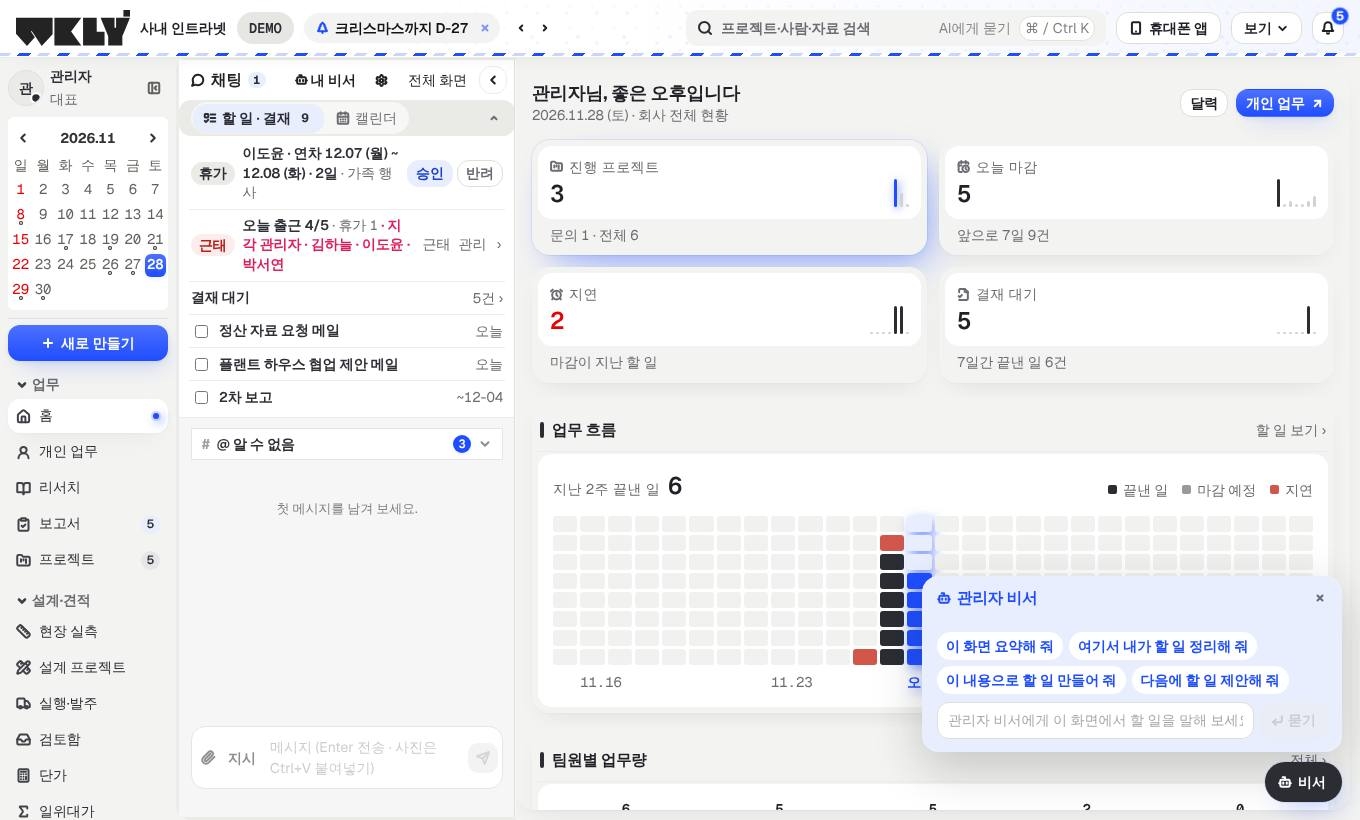
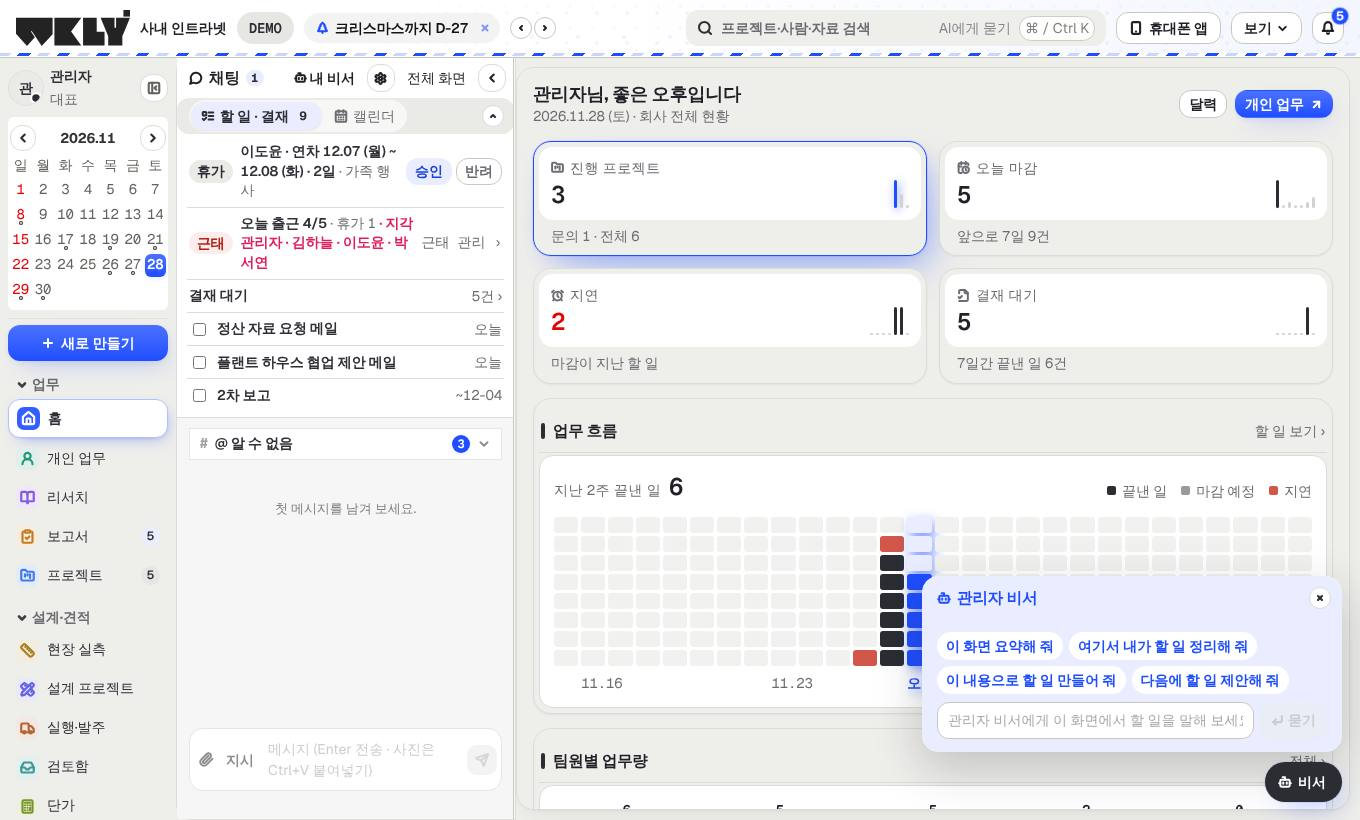
디자인 v9 선명하게: 메뉴마다 다른 강조색 · 카드 선 · 광고 탭
- 강조색을 메뉴마다 다르게 (lib/menuColors.ts · 빛과 연한 바탕은 color-mix 로 계산)
- 왼쪽 메뉴 아이콘을 메뉴 색 칸에, 카드는 흰 바탕 + 또렷한 선
- 광고 묶음 탭 · 아래 탭 · 조회 기간 고르기 모양 고침
- 사용 안내 사진 다시 찍음

Claude-Session: https://claude.ai/code/session_01F3gTQwJrgJEzSdbh5GAwru

diff --git a/erp/src/mono.css b/erp/src/mono.css
@@ -10,7 +10,7 @@
    - 바탕은 계속 밝게(어두운 화면 아님) · '화면 어둡게'(data-theme=dark)는 건드리지 않음 · main.tsx 에서 이 import 를 빼면 색 토큰만 v8 로 돌아감
    ================================================================================ */
 :root {
-  --v9-accent: #1f4dff; --v9-accent-tint: #e9eeff;
+  --v9-accent: #1f4dff; --v9-accent-tint: color-mix(in srgb, var(--v9-accent) 10%, #fff);
   --font: 'Geist', 'Pretendard Variable', Pretendard, system-ui, -apple-system, 'Apple SD Gothic Neo', sans-serif;
   --display: 'Geist', 'Pretendard Variable', Pretendard, system-ui, sans-serif;
   --mono: 'Geist Mono', 'JetBrains Mono', ui-monospace, 'SFMono-Regular', Menlo, 'Pretendard Variable', monospace;
@@ -20,10 +20,10 @@
   --v8-r-ctl: 12px;
 }
 html:not([data-theme="dark"]) {
-  --v8-bg: #f3f3f1;
+  --v8-bg: #eeeeeb;
   --v8-card: #ffffff;
-  --v8-line: #ebebe8;
-  --v8-line-2: #dededb;
+  --v8-line: #dbdbd7;
+  --v8-line-2: #c8c8c3;
   --v9-ink: #2b2d33;        /* 부드러운 먹색 (새까만 색을 쓰지 않음) */
   --v8-ink: #1f2126;
   --v8-text: #2e3036;
@@ -46,16 +46,16 @@ html:not([data-theme="dark"]) {
   --blue-tint: #eaeae7;
   --pink: #2b2d33;
   --v9-accent: #1f4dff;       /* 네온 파랑 */
-  --v9-accent-2: #5b7dff;
-  --v9-accent-tint: #e9eeff;
+  --v9-accent-2: color-mix(in srgb, var(--v9-accent) 75%, #fff);
+  --v9-accent-tint: color-mix(in srgb, var(--v9-accent) 10%, #fff);
   --v9-live: #33d17a;         /* 정상 · 살아 있음 점 */
   --neon: var(--v9-accent);
   /* 빛이 새어 나가는 효과: 밝은 테 한 줄 + 오른쪽 아래로 번지는 빛 두 겹 */
-  --glow-1: 0 2px 6px -2px rgba(31, 77, 255, .16), 6px 10px 24px -10px rgba(31, 77, 255, .30);
-  --glow-2: 0 0 0 1px rgba(31, 77, 255, .10), 8px 12px 28px -10px rgba(31, 77, 255, .36), 18px 24px 56px -20px rgba(91, 125, 255, .40);
-  --glow-3: 0 0 0 1px rgba(31, 77, 255, .22), 8px 12px 30px -8px rgba(31, 77, 255, .48), 20px 28px 64px -18px rgba(91, 125, 255, .55);
+  --glow-1: 0 2px 6px -2px color-mix(in srgb, var(--v9-accent) 16%, transparent), 6px 10px 24px -10px color-mix(in srgb, var(--v9-accent) 30%, transparent);
+  --glow-2: 0 0 0 1px color-mix(in srgb, var(--v9-accent) 10%, transparent), 8px 12px 28px -10px color-mix(in srgb, var(--v9-accent) 36%, transparent), 18px 24px 56px -20px color-mix(in srgb, var(--v9-accent) 28%, transparent);
+  --glow-3: 0 0 0 1px color-mix(in srgb, var(--v9-accent) 22%, transparent), 8px 12px 30px -8px color-mix(in srgb, var(--v9-accent) 48%, transparent), 20px 28px 64px -18px color-mix(in srgb, var(--v9-accent) 38%, transparent);
   --neon-glow: var(--glow-2);
-  --neon-soft: 0 0 0 4px rgba(31, 77, 255, .12), 4px 8px 20px -8px rgba(31, 77, 255, .28);
+  --neon-soft: 0 0 0 4px color-mix(in srgb, var(--v9-accent) 12%, transparent), 4px 8px 20px -8px color-mix(in srgb, var(--v9-accent) 28%, transparent);
   --div-ar: #2b2d33; --div-tw: #8a8a86; --div-rs: #c4c4c0;
   --cal-mine: #1f4dff; --cal-mine-tint: #e9eeff;
 }
@@ -72,8 +72,8 @@ html:not([data-theme="dark"]) .top-logo .logo-ink, html:not([data-theme="dark"])
 html:not([data-theme="dark"]) :is(.box, .stat, .kpi, .card, .home-kpi, .today-card, .checkin-card, .brief, .rd-box) { border-color: var(--v8-line); box-shadow: var(--v8-shadow); }
 
 /* ---------- 버튼 ---------- */
-html:not([data-theme="dark"]) :is(.btn-primary, .new-btn, .today-ok) { background: linear-gradient(180deg, #4d70ff, var(--v9-accent)) !important; border-color: transparent !important; color: #fff !important; box-shadow: var(--glow-1); transition: box-shadow .18s, transform .05s; }
-html:not([data-theme="dark"]) :is(.btn-primary, .new-btn, .today-ok):hover:not(:disabled) { background: linear-gradient(180deg, #4468ff, #1a43e6) !important; box-shadow: var(--glow-2); }
+html:not([data-theme="dark"]) :is(.btn-primary, .new-btn, .today-ok) { background: linear-gradient(180deg, color-mix(in srgb, var(--v9-accent) 80%, #fff), var(--v9-accent)) !important; border-color: transparent !important; color: #fff !important; box-shadow: var(--glow-1); transition: box-shadow .18s, transform .05s; }
+html:not([data-theme="dark"]) :is(.btn-primary, .new-btn, .today-ok):hover:not(:disabled) { background: linear-gradient(180deg, color-mix(in srgb, var(--v9-accent) 80%, #fff), color-mix(in srgb, var(--v9-accent) 86%, #000)) !important; box-shadow: var(--glow-2); }
 html:not([data-theme="dark"]) :is(.btn-primary, .new-btn, .today-ok):active:not(:disabled) { transform: translateY(1px); }
 html:not([data-theme="dark"]) :is(.btn-primary, .new-btn) svg { color: #fff; }
 html:not([data-theme="dark"]) :is(.btn-outline, .btn-ghost):hover:not(:disabled) { border-color: var(--v9-ink); color: var(--v9-ink); background: #fff; }
@@ -85,7 +85,7 @@ html:not([data-theme="dark"]) :is(.input, .select, .textarea, input[type="text"]
 /* ---------- 왼쪽 메뉴: 고른 줄 = 흰 칸 + 네온 점 ---------- */
 html:not([data-theme="dark"]) .app-page .profile .side-item.on { background: #fff; color: var(--v9-ink); box-shadow: var(--glow-1); position: relative; }
 html:not([data-theme="dark"]) .app-page .profile .side-item.on > svg { color: var(--v9-ink); }
-html:not([data-theme="dark"]) .app-page .profile .side-item.on::after { content: ''; position: absolute; right: 9px; top: 50%; width: 6px; height: 6px; margin-top: -3px; border-radius: 50%; background: var(--v9-accent); box-shadow: 0 0 0 2px rgba(31,77,255,.18), 3px 3px 10px rgba(31,77,255,.8); }
+html:not([data-theme="dark"]) .app-page .profile .side-item.on::after { content: ''; position: absolute; right: 9px; top: 50%; width: 6px; height: 6px; margin-top: -3px; border-radius: 50%; background: var(--v9-accent); box-shadow: 0 0 0 2px color-mix(in srgb, var(--v9-accent) 18%, transparent), 3px 3px 10px color-mix(in srgb, var(--v9-accent) 80%, transparent); }
 html:not([data-theme="dark"]) .app-page .profile .side-item.on.has-n::after { display: none; }
 html:not([data-theme="dark"]) .side-group-label { color: var(--v8-sub) !important; letter-spacing: .02em; }
 
@@ -105,7 +105,7 @@ html:not([data-theme="dark"]) :is(.table, .board) tbody tr:hover { background: #
 html:not([data-theme="dark"]) :is(.meter > *, .pc-bar > i, .dash-prog i, .g-bar) { background-color: var(--v9-ink); }
 
 /* ---------- 섹션 제목 앞 막대: 네온 ---------- */
-html:not([data-theme="dark"]) .section-head::before, html:not([data-theme="dark"]) .sec-head::before { background: var(--v9-accent); box-shadow: 3px 0 10px rgba(31,77,255,.7); }
+html:not([data-theme="dark"]) .section-head::before, html:not([data-theme="dark"]) .sec-head::before { background: var(--v9-accent); box-shadow: 3px 0 10px color-mix(in srgb, var(--v9-accent) 70%, transparent); }
 
 /* ---------- 위쪽 바 ---------- */
 html:not([data-theme="dark"]) .app-page .topbar { border-bottom-color: var(--v8-line); }
@@ -147,13 +147,13 @@ html:not([data-theme="dark"]) :is(.chip.active, .chip.on) { box-shadow: none !im
 html:not([data-theme="dark"]) .side-n { background: var(--v9-accent-tint); color: var(--v9-ink); }
 
 /* 짙은 버튼 · 동그라미 대신 연한 바탕 — 눌러야 할 것은 연한 파랑, 올리면 네온 */
-html:not([data-theme="dark"]) :is(.btn-blue, .btn-yellow, .send-btn):not(:disabled) { background: var(--v9-accent-tint); border-color: transparent; color: #1d3fd0; font-weight: 600; }
+html:not([data-theme="dark"]) :is(.btn-blue, .btn-yellow, .send-btn):not(:disabled) { background: var(--v9-accent-tint); border-color: transparent; color: color-mix(in srgb, var(--v9-accent) 86%, #000); font-weight: 600; }
 html:not([data-theme="dark"]) :is(.btn-blue, .btn-yellow, .send-btn):not(:disabled) svg { color: currentColor; }
-html:not([data-theme="dark"]) :is(.btn-blue, .btn-yellow, .send-btn):not(:disabled):hover { background: linear-gradient(180deg, #4d70ff, var(--v9-accent)); border-color: transparent; color: #fff; box-shadow: var(--glow-1); }
+html:not([data-theme="dark"]) :is(.btn-blue, .btn-yellow, .send-btn):not(:disabled):hover { background: linear-gradient(180deg, color-mix(in srgb, var(--v9-accent) 80%, #fff), var(--v9-accent)); border-color: transparent; color: #fff; box-shadow: var(--glow-1); }
 html:not([data-theme="dark"]) .avatar:is(.c1, .c2, .c3, .c4, .c5, .c6) { background: #e6e6e3; border-color: transparent; color: var(--v9-ink); }
 html:not([data-theme="dark"]) .avatar:is(.c2, .c5) { background: var(--v9-accent-tint); }
 html:not([data-theme="dark"]) .topbar .mode-badge { background: #e6e6e3; color: var(--v9-ink); }
-html:not([data-theme="dark"]) :is(.mini-cal .day.today, .week-day.today .week-day-h .dd) { background: linear-gradient(180deg, #4d70ff, var(--v9-accent)); color: #fff; border-color: transparent; box-shadow: var(--glow-1); }
+html:not([data-theme="dark"]) :is(.mini-cal .day.today, .week-day.today .week-day-h .dd) { background: linear-gradient(180deg, color-mix(in srgb, var(--v9-accent) 80%, #fff), var(--v9-accent)); color: #fff; border-color: transparent; box-shadow: var(--glow-1); }
 html:not([data-theme="dark"]) .week-day { border-radius: 14px; border-color: var(--v8-line); }
 html:not([data-theme="dark"]) .week-day.today { border: 1px solid transparent; background: #fff; box-shadow: var(--glow-2); }
 html:not([data-theme="dark"]) .week-item { border-left-width: 0; border-radius: 8px; padding: 4px 9px; background: #f3f3f1; }
@@ -161,17 +161,17 @@ html:not([data-theme="dark"]) .week-item.proj { background: var(--v9-accent-tint
 html:not([data-theme="dark"]) .kpi, html:not([data-theme="dark"]) .div-card, html:not([data-theme="dark"]) .ad-pcard { border-color: var(--v8-line); }
 html:not([data-theme="dark"]) :is(.seg button, .right-tabs button, .tag, .badge, .chip) { border-radius: 999px; }
 html:not([data-theme="dark"]) :is(.btn, .icon-btn, .quick-btn, .input, .select, .textarea, select, textarea, input[type="text"], input[type="search"], input[type="date"], input[type="number"]) { border-radius: var(--v8-r-ctl); }
-html:not([data-theme="dark"]) button.day.today { background: linear-gradient(180deg, #4d70ff, var(--v9-accent)); color: #fff; border-color: transparent; border-radius: 50%; box-shadow: var(--glow-1); }
+html:not([data-theme="dark"]) button.day.today { background: linear-gradient(180deg, color-mix(in srgb, var(--v9-accent) 80%, #fff), var(--v9-accent)); color: #fff; border-color: transparent; border-radius: 50%; box-shadow: var(--glow-1); }
 html:not([data-theme="dark"]) :is(button[class*="mf-"].on, button[class*="sg-"].on, .myproj-st, .myproj-n, .team-person.active) { background: var(--v9-accent-tint); border-color: transparent; color: var(--v9-ink); }
 html:not([data-theme="dark"]) :is(.myproj-div, .myproj-own, .myproj-done, .assign-chip, .rd-ai, button[class*="mf-"], button[class*="sg-"]) { border-color: var(--v8-line-2); border-radius: 999px; }
 html:not([data-theme="dark"]) .dash-ev.e-start { background: var(--v9-accent-tint); color: var(--v9-ink); }
 html:not([data-theme="dark"]) .dash-ev.e-end { box-shadow: inset 0 0 0 1px var(--v8-line-2); }
 /* 굵고 짙은 테 → 옅은 선 · 연한 파랑 */
-html:not([data-theme="dark"]) button.day.today { background: linear-gradient(180deg, #4d70ff, var(--v9-accent)) !important; color: #fff !important; }
+html:not([data-theme="dark"]) button.day.today { background: linear-gradient(180deg, color-mix(in srgb, var(--v9-accent) 80%, #fff), var(--v9-accent)) !important; color: #fff !important; }
 html:not([data-theme="dark"]) :is(.btn-blue, .btn-yellow, .send-btn, .btn.primary):disabled { background: #ececea; border-color: transparent; color: #a3a5a9; }
-html:not([data-theme="dark"]) .btn.primary:not(:disabled) { background: linear-gradient(180deg, #4d70ff, var(--v9-accent)); border-color: transparent; color: #fff; box-shadow: var(--glow-1); }
+html:not([data-theme="dark"]) .btn.primary:not(:disabled) { background: linear-gradient(180deg, color-mix(in srgb, var(--v9-accent) 80%, #fff), var(--v9-accent)); border-color: transparent; color: #fff; box-shadow: var(--glow-1); }
 html:not([data-theme="dark"]) :is(.kpi, .div-card, .ad-pcard, .stat) { border-top: 1px solid var(--v8-line); border-left-width: 1px; border-left-color: var(--v8-line); }
-html:not([data-theme="dark"]) :is(.ins-card, .ledger-kpi, .ad-report-card, .note, .office-warn, .ai-resp, a.item.active) { border-left-color: #c9d4ff; }
+html:not([data-theme="dark"]) :is(.ins-card, .ledger-kpi, .ad-report-card, .note, .office-warn, .ai-resp, a.item.active) { border-left-color: color-mix(in srgb, var(--v9-accent) 26%, #fff); }
 html:not([data-theme="dark"]) :is(select.div-select, .avatar, .ai-card.on, details.web-setting) { border-color: var(--v8-line-2); }
 html:not([data-theme="dark"]) .ai-card.on { box-shadow: var(--glow-1); border-color: transparent; }
 html:not([data-theme="dark"]) :is(.view-tab.on, .tab.on, .tab.active) { border-bottom-color: var(--v9-accent); }
@@ -180,6 +180,38 @@ html:not([data-theme="dark"]) .pane-list.chat-list { border-right-color: var(--v
 html:not([data-theme="dark"]) .app-page .body > .chat-dock { border-right-color: var(--v8-line); }
 html:not([data-theme="dark"]) :is(.kpi, .stat, .div-card, .ad-pcard, .org-dept, .right-kpi, .rd-kpi, .board, .board-wrap) { border-top-color: var(--v8-line) !important; }
 html:not([data-theme="dark"]) .chat-dock-resize::before { background: var(--v8-line-2); }
-html:not([data-theme="dark"]) .chat-dock-resize:hover::before { background: var(--v9-accent); box-shadow: 2px 0 10px rgba(31, 77, 255, .5); }
+html:not([data-theme="dark"]) .chat-dock-resize:hover::before { background: var(--v9-accent); box-shadow: 2px 0 10px color-mix(in srgb, var(--v9-accent) 50%, transparent); }
 html:not([data-theme="dark"]) select { border-color: var(--v8-line-2) !important; }
 html:not([data-theme="dark"]) :is(.ads-period, .seg, .period, [role="tablist"]) > button:is(.on, .active, [aria-selected="true"], [aria-pressed="true"]):not(.tab):not(.view-tab) { background: var(--v9-accent-tint); border-color: transparent; color: var(--v9-ink); }
+
+/* ================================================================================
+   선명하게 · 메뉴마다 다른 색 (대표 지시 2026-11-28 '아이콘과 배경들 각각의 카드들의 선구분을 선명하게 · 색은 각 메뉴마다 다른 색' · 참고: Product UI Styleguide)
+   - 강조색 --v9-accent 는 지금 메뉴의 색(lib/menuColors.ts · Shell 이 넣음). 빛 · 연한 바탕 · 버튼은 모두 이 값에서 계산
+   - 바탕은 한 단계 짙게, 카드는 흰 바탕 + 또렷한 1px 선 + 옅은 그림자 → 카드끼리 경계가 분명
+   - 왼쪽 메뉴 아이콘은 메뉴 색의 작은 칸 안에
+   ================================================================================ */
+html:not([data-theme="dark"]) :is(.box, .stat, .kpi, .card, .home-kpi, .today-card, .checkin-card, .brief, .rd-box, .pc-card, .proj-card, .pboards-item, .week-day, .div-card, .ad-pcard) { background: #fff; border: 1px solid var(--v8-line) !important; box-shadow: 0 1px 2px rgba(20, 22, 30, .05); }
+html:not([data-theme="dark"]) .week-day.today { border-color: var(--v9-accent) !important; }
+html:not([data-theme="dark"]) :is(.table, .board, .pay-grid) :is(th, td) { border-bottom-color: var(--v8-line); }
+html:not([data-theme="dark"]) .app-page :is(.main, .web-panel, .chat-dock) { border: 1px solid var(--v8-line); }
+html:not([data-theme="dark"]) .app-page .topbar { box-shadow: 0 1px 0 var(--v8-line-2); background: #fff; }
+/* 왼쪽 메뉴: 아이콘 칸 = 메뉴 색 */
+html:not([data-theme="dark"]) .app-page .profile .side-item > svg { box-sizing: content-box; padding: 4px; border-radius: 7px; background: color-mix(in srgb, var(--mc, var(--v9-accent)) 13%, #fff); color: var(--mc, var(--v9-accent)); stroke-width: 2.2; }
+html:not([data-theme="dark"]) .app-page .profile .side-item.on { background: #fff; border: 1px solid color-mix(in srgb, var(--mc) 35%, #fff); box-shadow: 0 1px 2px rgba(20, 22, 30, .06), 4px 6px 16px -8px color-mix(in srgb, var(--mc) 55%, transparent); font-weight: 600; }
+html:not([data-theme="dark"]) .app-page .profile .side-item.on > svg { background: var(--mc); color: #fff; }
+html:not([data-theme="dark"]) .app-page .profile .side-item.on::after { display: none; }
+/* 아이콘 선명하게 */
+html:not([data-theme="dark"]) :is(.btn, .icon-btn, .quick-btn, .tab, .chip, .section-head, .sec-head) svg.lucide { stroke-width: 2.1; }
+html:not([data-theme="dark"]) .icon-btn { border: 1px solid var(--v8-line); background: #fff; color: var(--v9-ink); }
+html:not([data-theme="dark"]) .icon-btn:hover { border-color: var(--v9-accent); color: var(--v9-accent); }
+/* 광고 화면: 묶음 탭 · 아래 탭 · 기간 고르기 */
+html:not([data-theme="dark"]) .ads-nav { gap: 4px; padding: 4px; border: 1px solid var(--v8-line); border-radius: 14px; background: var(--v8-bg); }
+html:not([data-theme="dark"]) .ads-nav button { border: 1px solid transparent; border-radius: 10px; min-height: 42px; background: transparent; color: var(--tx-sub); }
+html:not([data-theme="dark"]) .ads-nav button:hover { background: #fff; color: var(--v9-ink); }
+html:not([data-theme="dark"]) .ads-nav button.active { background: #fff; border-color: var(--v8-line-2); color: var(--v9-ink); font-weight: 600; box-shadow: 0 1px 2px rgba(20, 22, 30, .06), var(--glow-1); }
+html:not([data-theme="dark"]) .ads-nav button.active svg { color: var(--v9-accent); }
+html:not([data-theme="dark"]) .ads-subnav button { border-radius: 999px; border: 1px solid transparent; }
+html:not([data-theme="dark"]) .ads-subnav button.active { background: var(--v9-accent-tint); border-color: color-mix(in srgb, var(--v9-accent) 30%, #fff); color: var(--v9-ink); }
+html:not([data-theme="dark"]) .ads-segment { gap: 2px; padding: 3px; border: 1px solid var(--v8-line-2); border-radius: 12px; background: var(--v8-bg); }
+html:not([data-theme="dark"]) .ads-segment button { border: 0 !important; border-radius: 9px; background: transparent; color: var(--tx-sub); min-height: 30px; }
+html:not([data-theme="dark"]) .ads-segment button:is(.active, .on, [aria-pressed="true"], [aria-selected="true"]) { background: var(--v9-accent) !important; color: #fff !important; box-shadow: var(--glow-1); }

diff --git a/erp/src/components/Shell.tsx b/erp/src/components/Shell.tsx
@@ -1,7 +1,8 @@
-import { createContext, lazy, Suspense, useCallback, useContext, useEffect, useId, useLayoutEffect, useMemo, useRef, useState, type ChangeEvent, type PointerEvent as ReactPointerEvent, type ReactNode } from 'react'
+import { createContext, lazy, Suspense, useCallback, useContext, useEffect, useId, useLayoutEffect, useMemo, useRef, useState, type ChangeEvent, type CSSProperties, type PointerEvent as ReactPointerEvent, type ReactNode } from 'react'
 import { useMyAgents } from './AgentDesk'
 import { MobileAppBar, TopAppButton } from './InstallCard'
 import { useTheme } from '../lib/theme'
+import { menuColor } from '../lib/menuColors'
 import { PencilRuler, Truck, Inbox, Calculator, Sigma, Building2, Layers, GraduationCap, Ruler, BookOpen, Bookmark, Bot, ListTodo, Plus, Search, Briefcase, HardDrive, ChevronDown, ChevronLeft, PenLine, ChevronRight, CircleHelp, PanelLeftClose, PanelLeftOpen, ClipboardCheck, FolderKanban, Home, Library, Megaphone, MessageCircle, MoreHorizontal, Settings, Users, UserRound, Landmark, FileQuestion, HandCoins, type LucideIcon } from 'lucide-react'
 import { accessSource, isDesktopApp } from '../lib/desktop'
 import { useAttendance } from '../lib/attendance'
@@ -396,7 +397,7 @@ function SideNav({ active, summary, onExpand }: { active: TabKey; summary: Summa
             const Icon = ICONS[t.key]
             const n = count(t.key)
             const index = tabs.indexOf(t)
-            return <a key={t.key} href={t.path} className={`side-item ${t.key === active ? 'on' : ''} ${n && t.key !== 'projects' ? 'has-n' : ''}${t.key === 'chat' ? ' side-chat' : ''}`} aria-current={t.key === active ? 'page' : undefined} title={`${t.label}${index < 9 ? ` (Alt+${index + 1})` : ''}`} onClick={event => {
+            return <a key={t.key} href={t.path} className={`side-item ${t.key === active ? 'on' : ''} ${n && t.key !== 'projects' ? 'has-n' : ''}${t.key === 'chat' ? ' side-chat' : ''}`} aria-current={t.key === active ? 'page' : undefined} style={{ '--mc': menuColor(t.key) } as CSSProperties} title={`${t.label}${index < 9 ? ` (Alt+${index + 1})` : ''}`} onClick={event => {
               if (event.metaKey || event.ctrlKey || event.shiftKey || event.button !== 0) return
               event.preventDefault()
               navigate(t.path)
@@ -829,6 +830,10 @@ export function ShellFrame({ children, initial }: { children: ReactNode; initial
   const summary = useSummary()
   const [{ active, flush }, setState] = useState<ShellState>(initial ?? { active: 'home', flush: false })
   const set = useCallback((s: ShellState) => setState(o => (o.active === s.active && o.flush === s.flush ? o : s)), [])
+  // 메뉴마다 다른 강조색: 지금 화면의 색을 --v9-accent 로 (mono.css 의 빛 · 연한 바탕이 이 값에서 계산됨)
+  useEffect(() => {
+    document.documentElement.style.setProperty('--v9-accent', menuColor(active))
+  }, [active])
   const mainRef = useRef<HTMLElement>(null)
   // 화면을 옮기면 가운데 창은 맨 위부터
   useLayoutEffect(() => {

diff --git a/erp/src/pages/Dashboard.css b/erp/src/pages/Dashboard.css
@@ -16,7 +16,7 @@
 .dash-spark i.top { background: var(--v9-ink, #2b2d33); }
 .dash-kpi-foot { grid-area: foot; font-size: var(--fs-body); color: var(--tx-sub); padding: 6px 12px 4px; white-space: nowrap; overflow: hidden; text-overflow: ellipsis; }
 .dash-kpi.is-key { box-shadow: var(--glow-2, none); border-color: transparent; }
-.dash-kpi.is-key .dash-spark i.top { background: var(--v9-accent, #1f4dff); box-shadow: 2px 2px 8px rgba(31, 77, 255, .7); }
+.dash-kpi.is-key .dash-spark i.top { background: var(--v9-accent, #1f4dff); box-shadow: 2px 2px 8px color-mix(in srgb, var(--v9-accent) 70%, transparent); }
 .dash-kpi:hover { box-shadow: var(--glow-2, none); }
 
 /* 카드: 회색 머리 + 흰 본문 */
@@ -39,7 +39,7 @@
 .dash-flow-col i.f-done { background: var(--v9-ink, #2b2d33); } .dash-flow-col i.f-due { background: #a9a9a5; } .dash-flow-col i.f-late { background: #d2564a; }
 .dash-flow-col span { font-family: var(--mono); font-size: var(--fs-body); color: var(--tx-sub); white-space: nowrap; height: 1.4em; margin-top: 4px; overflow: visible; }
 .dash-flow-col.is-today i:not([class]), .dash-flow-col.is-today i[class=''] { background: var(--v9-accent-tint, #e9eeff); }
-.dash-flow-col.is-today { filter: drop-shadow(3px 4px 6px rgba(31, 77, 255, .55)); }
+.dash-flow-col.is-today { filter: drop-shadow(3px 4px 6px color-mix(in srgb, var(--v9-accent) 55%, transparent)); }
 .dash-flow-col.is-today i.f-due { background: var(--v9-accent, #1f4dff); }
 .dash-flow-col.is-today span { color: var(--v9-accent, #1f4dff); font-weight: 600; }
 
@@ -91,3 +91,8 @@ html[data-theme=dark] :is(.dash-body, .dash-kpi-l, .dash-kpi b, .dash-spark, .da
 .dash-kpi-l { border-radius: 14px 14px 0 0; } .dash-kpi b { border-radius: 0 0 0 14px; } .dash-spark { border-radius: 0 0 14px 0; }
 .dash-body { border-color: transparent; border-radius: 14px; }
 .dash-day { border-radius: 12px; }
+
+/* 선명하게 (2026-11-28): 카드 테를 또렷하게 */
+.dash-kpi, .dash-card { border: 1px solid var(--v8-line, #dbdbd7); box-shadow: 0 1px 2px rgba(20, 22, 30, .05); }
+.dash-body { border: 1px solid var(--v8-line, #dbdbd7); }
+.dash-kpi.is-key { border-color: var(--v9-accent); box-shadow: var(--glow-2, none); }

diff --git a/erp/src/lib/menuColors.ts b/erp/src/lib/menuColors.ts
@@ -1,0 +1,36 @@
+// 메뉴마다 다른 색 (2026-11-28 대표 지시 '색은 각 메뉴마다 다른 색을 사용해')
+// - 왼쪽 메뉴 아이콘 칸의 색이자, 그 메뉴 화면의 강조색(--v9-accent: 주 버튼 · 고른 것 · 빛)
+// - 흰 글자가 읽히는 중간 밝기 색만. 빨강 계열은 지연 · 경고와 헷갈려 쓰지 않음
+export const MENU_COLORS: Record<string, string> = {
+  home: '#1f4dff',
+  my: '#0e8f6e',
+  reportTemplates: '#7a4ce0',
+  approvals: '#c2710c',
+  chat: '#0a84c6',
+  projects: '#2f6fed',
+  drive: '#1a9a4b',
+  boards: '#c2409b',
+  team: '#0c8a94',
+  site: '#a8730a',
+  design: '#5a55e6',
+  designOrders: '#b3561f',
+  designCards: '#2a8f8f',
+  designPrices: '#6b8e12',
+  ilwi: '#8a5cc7',
+  designVendors: '#1976b8',
+  designMaterials: '#9a6a2f',
+  designLearn: '#3d8f5f',
+  agents: '#6a45e8',
+  ads: '#d1457a',
+  ledger: '#12805c',
+  interviewQuestions: '#a04fc0',
+  gov: '#2c62b8',
+  admin: '#5b6472',
+  leads: '#1d8fb0',
+  sales: '#c9601a',
+  tenders: '#4c6fbf',
+  clients: '#3b8a7a',
+  library: '#8a7a1f',
+  work: '#0e8f6e',
+}
+export const menuColor = (key: string) => MENU_COLORS[key] ?? '#1f4dff'

diff --git a/CLAUDE.md b/CLAUDE.md
@@ -112,7 +112,7 @@ Codex 공동 개발은 끝났다(2026-11-16 종료 · 2026-11-20 대표 지시 '
   - `src/styles.css` : 디자인 토큰 · WKLY v7 디자인 시스템 (사각 모서리, 글자 크기 단계 `--fs-cap 12 · sm 12.5 · body 13.5 · sub 14.5 · title 16 · num 19 · hero 28` (2026-11-09 위계 다시 잡음 · 맨 아래 :root 가 최종값 · 터치 화면은 반 단계 큼))
   - (아래 글자 위계의 굵기 800 · 700 은 2026-11-28 디자인 v9 에서 700 · 600 으로, 색 값은 mono.css 토큰으로 바뀜 — 크기 3단계 · px 직접 쓰지 않기 규칙은 그대로)
   - **글자 위계 (2026-11-17 대표 지시 '전체 공통사항 · 글자 크기는 타이틀 · 본문 · 강조 3가지만 · 색 구분과 볼드 규칙') — 새 화면도 반드시 지킬 것**: `src/type.css` 를 main.tsx 맨 끝에서 읽어 앞의 모든 단계를 덮어씀. 크기 3개 = 타이틀 `--t-title` 18px(제목 · 큰 숫자) · 강조 `--t-em` 15.5px(소제목 · 이름 줄) · 본문 `--t-body` 14px(나머지 전부 — 날짜 · 메타 · 배지 포함, 터치 화면 18.5/16/15) · 예전 토큰은 cap/sm/small/body → 본문, sub → 강조, title/num/hero → 타이틀로 이어짐. CSS 에 px 글자 크기를 새로 쓰지 말고 var(--fs-body | --fs-sub | --fs-title) 만 쓸 것(2026-11-17 에 94곳 바꿈 · 예외는 알림 숫자 동그라미 .side-n · .q2-badge · .bell .count 12px). 굵기 3개 = 800 타이틀 · 700 강조 · 400 본문(500 · 600 · 650 · 750 안 씀 · 76곳 바꿈). 색 = --tx-title #151d18 · --tx-body #222a25 · --tx-sub #535c56(보조는 크기 대신 색으로 낮춤 · --gray 도 이 색) · --tx-key #1f6b4a(누를 수 있는 것 · 고른 것) · 빨강은 지연 · 경고만. 묶음 클래스 .tx-title · .tx-em · .tx-body · .tx-sub · .tx-key. 차트 SVG 글자(charts.tsx 등)는 그대로
-  - **디자인 v9 모노톤 + 네온 빛 (2026-11-28 대표가 핀터레스트 참고 화면 넷을 골라 '이것들을 조합해서 디자인잡아 · 인트라넷 디자인 전체를 변경해 · 모노톤과 네온 효과' → '남은 화면들도 모노톤으로 · 폰트와 디자인규칙까지 모두 변경해 · 대시보드또한 디자인 배치 다시' · '색은 첨부이미지와 같이 네온 효과' · '빛이 새어나가는 효과를 잘 만들어') — 규칙 문서 `erp/docs/DESIGN_V9.md` · 새 화면도 반드시 이 규칙**: `src/mono.css`(main.tsx 맨 끝)가 토큰을 정함. ① 색 = 회색 계열 하나(바탕 #f0f0ee · 흰 카드 · 먹색 #141414 = 고른 것 · 막대) + 네온 파랑 `--v9-accent` #1f4dff 하나 · 빨강 · 노랑은 지연 · 경고만 · 초록 점은 '정상'만 ② 네온 = 가장자리에서 오른쪽 아래로 새어 나가는 파랑 빛 `--glow-1/2/3` · `--neon-soft` — 주 버튼 · 고른 것 · 오늘 · 가장 중요한 숫자 하나 · 누를 수 있는 카드 hover 에만, 글자색으로는 안 씀 ③ 글꼴 = 영문 · 숫자 Geist · 한글 Pretendard · 큰 숫자 · 연번 Geist Mono(구글 폰트 · index.html) · 크기 18 / 15.5 / 14 그대로 + 큰 숫자 `--t-num` 24 · **굵기 700 / 600 / 400**(예전 800 / 700 을 CSS 전체에서 한 단계씩 내림) ④ 모서리 카드 14 · 버튼 10 · 알약 ⑤ 카드 틀 = 회색 머리 + 흰 본문. 같은 날 **모든 CSS 의 굳은 색을 회색으로 바꿈**(초록 · 미색 · 보라 → 같은 밝기 회색 · 파랑 → `--v9-accent` / `-tint` · '화면 어둡게' 규칙 줄은 그대로 · 빨강 · 주황 · 노랑은 그대로) — **새 CSS 에 색 값을 직접 쓰지 말고 토큰을 쓸 것.** 구분 색은 `--div-ar/tw/rs`(먹색 · 회색 · 연회색) · 달력 내 업무는 네온 파랑. 홈 대시보드 새 배치(`pages/Dashboard.tsx` · `.css`): 인사 + 주 버튼 → 숫자 카드 넷(작은 막대 · 아래 설명 줄 · 첫 카드에 빛) → '업무 흐름' 점 격자(지난 2주 끝낸 일 · 앞으로 2주 마감 · 오늘 기둥에 빛 · `lib/dashboard.ts` dayFlow) + 팀원 세로 막대 → 마감이 가까운 프로젝트 표(진행 막대 · 상태 알약) → 앞으로 7일 · 구분별 → 진행 프로젝트 카드. 같은 날 2차 '부드럽게'(대표 '아직 안 바꾼 곳들도 모두 모노톤으로' · '디자인 ui,ux도 바꿔 · 색상의 사용도 수정하고 · 부드러운 느낌'): 새까만 색 대신 부드러운 먹색 `--v9-ink` #2b2d33 · 고른 것은 검은 알약 대신 연한 파랑 바탕 · 자주 누르는 버튼(.btn-blue 등)은 연한 파랑 · 테두리 대신 옅은 그림자 · 카드 18 / 버튼 12 · **styles.css 의 '모든 모서리 0 !important' 고정을 없앰(다시 넣지 말 것)** · 빛은 테 없이 넓게 · 0.2초 전환 · 창 뒤 뿌옇게. 차트(LedgerStats · MarketingFlow) · 화이트보드(미니맵 · 커서 · Excalidraw 색) · 설계(제안 보드 견본 색 · 3D 바닥 · 도면 바탕) · 기념일 장식 띠 · PC 오프라인 화면(desktop/offline.html — 다음 PC 프로그램 릴리스 때 반영)도 회색 + 네온 파랑. 그대로 둔 것: 실제 자재 색(3D · 마감재) · 거래처에 나가는 것(제안서 슬라이드 · 영업 메일 · 카드뉴스 · 광고 이미지). 사용 안내 사진 13장 · 영상 3개 다시 찍음 · 안내 글(guides.ts 두 곳)의 홈 · 할 일(/my) · 일정(/projects?view=calendar)을 새 구조에 맞춤(agent-chat 쪽은 다음 배포 때 반영).
+  - **디자인 v9 모노톤 + 네온 빛 (2026-11-28 대표가 핀터레스트 참고 화면 넷을 골라 '이것들을 조합해서 디자인잡아 · 인트라넷 디자인 전체를 변경해 · 모노톤과 네온 효과' → '남은 화면들도 모노톤으로 · 폰트와 디자인규칙까지 모두 변경해 · 대시보드또한 디자인 배치 다시' · '색은 첨부이미지와 같이 네온 효과' · '빛이 새어나가는 효과를 잘 만들어') — 규칙 문서 `erp/docs/DESIGN_V9.md` · 새 화면도 반드시 이 규칙**: `src/mono.css`(main.tsx 맨 끝)가 토큰을 정함. ① 색 = 회색 계열 하나(바탕 #f0f0ee · 흰 카드 · 먹색 #141414 = 고른 것 · 막대) + 네온 파랑 `--v9-accent` #1f4dff 하나 · 빨강 · 노랑은 지연 · 경고만 · 초록 점은 '정상'만 ② 네온 = 가장자리에서 오른쪽 아래로 새어 나가는 파랑 빛 `--glow-1/2/3` · `--neon-soft` — 주 버튼 · 고른 것 · 오늘 · 가장 중요한 숫자 하나 · 누를 수 있는 카드 hover 에만, 글자색으로는 안 씀 ③ 글꼴 = 영문 · 숫자 Geist · 한글 Pretendard · 큰 숫자 · 연번 Geist Mono(구글 폰트 · index.html) · 크기 18 / 15.5 / 14 그대로 + 큰 숫자 `--t-num` 24 · **굵기 700 / 600 / 400**(예전 800 / 700 을 CSS 전체에서 한 단계씩 내림) ④ 모서리 카드 14 · 버튼 10 · 알약 ⑤ 카드 틀 = 회색 머리 + 흰 본문. 같은 날 **모든 CSS 의 굳은 색을 회색으로 바꿈**(초록 · 미색 · 보라 → 같은 밝기 회색 · 파랑 → `--v9-accent` / `-tint` · '화면 어둡게' 규칙 줄은 그대로 · 빨강 · 주황 · 노랑은 그대로) — **새 CSS 에 색 값을 직접 쓰지 말고 토큰을 쓸 것.** 구분 색은 `--div-ar/tw/rs`(먹색 · 회색 · 연회색) · 달력 내 업무는 네온 파랑. 홈 대시보드 새 배치(`pages/Dashboard.tsx` · `.css`): 인사 + 주 버튼 → 숫자 카드 넷(작은 막대 · 아래 설명 줄 · 첫 카드에 빛) → '업무 흐름' 점 격자(지난 2주 끝낸 일 · 앞으로 2주 마감 · 오늘 기둥에 빛 · `lib/dashboard.ts` dayFlow) + 팀원 세로 막대 → 마감이 가까운 프로젝트 표(진행 막대 · 상태 알약) → 앞으로 7일 · 구분별 → 진행 프로젝트 카드. 같은 날 2차 '부드럽게'(대표 '아직 안 바꾼 곳들도 모두 모노톤으로' · '디자인 ui,ux도 바꿔 · 색상의 사용도 수정하고 · 부드러운 느낌'): 새까만 색 대신 부드러운 먹색 `--v9-ink` #2b2d33 · 고른 것은 검은 알약 대신 연한 파랑 바탕 · 자주 누르는 버튼(.btn-blue 등)은 연한 파랑 · 테두리 대신 옅은 그림자 · 카드 18 / 버튼 12 · **styles.css 의 '모든 모서리 0 !important' 고정을 없앰(다시 넣지 말 것)** · 빛은 테 없이 넓게 · 0.2초 전환 · 창 뒤 뿌옇게. 차트(LedgerStats · MarketingFlow) · 화이트보드(미니맵 · 커서 · Excalidraw 색) · 설계(제안 보드 견본 색 · 3D 바닥 · 도면 바탕) · 기념일 장식 띠 · PC 오프라인 화면(desktop/offline.html — 다음 PC 프로그램 릴리스 때 반영)도 회색 + 네온 파랑. 그대로 둔 것: 실제 자재 색(3D · 마감재) · 거래처에 나가는 것(제안서 슬라이드 · 영업 메일 · 카드뉴스 · 광고 이미지). 같은 날 3차 '선명하게 · 메뉴마다 다른 색'(대표 '광고 화면 기간 고르기 칸과 묶음 탭도 고쳐 · 아이콘과 배경들 각각의 카드들의 선구분을 선명하게 · 색은 각 메뉴마다 다른 색' · 참고 Product UI Styleguide): **강조색 `--v9-accent` 는 메뉴마다 다름**(`lib/menuColors.ts` · Shell 이 지금 메뉴 색을 html 에 넣음 · 빛 · 연한 바탕 · 주 버튼은 color-mix 로 계산 — CSS 에 파랑을 직접 쓰지 말 것 · 새 메뉴는 색 한 줄 추가) · 왼쪽 메뉴 아이콘은 메뉴 색 칸 · 카드는 흰 바탕 + 1px 선 #dbdbd7 + 옅은 그림자(바탕 #eeeeeb) · 광고 묶음 탭 = 홈 안의 흰 카드 · 기간 고르기 = 알약. 사용 안내 사진 13장 · 영상 3개 다시 찍음 · 안내 글(guides.ts 두 곳)의 홈 · 할 일(/my) · 일정(/projects?view=calendar)을 새 구조에 맞춤(agent-chat 쪽은 다음 배포 때 반영).
   - 디자인 v8 (2026-11-16 대표 지시 '인트라넷 디자인 개선해' · Houzz Pro 스타일 계획 문서 1단계): `src/refresh.css` 를 main.tsx 맨 끝에서 읽음 — 따뜻한 미색 바탕(#f6f4ef) · 흰 작업 칸 · 둥근 모서리(카드 12 · 버튼·입력 8 · 태그 알약, v7 의 '모두 사각'을 덮어씀) · 흰 위쪽 바(초록 로고) · 테두리 없는 메뉴(고른 줄 흰 칸) · 밑줄 탭 · 가로선만 표 · 연한 배지 · 글꼴 Pretendard(jsdelivr · 무료) + 숫자도 같은 글꼴 고정폭. 색은 `html:not([data-theme=dark])` 에만 → '화면 어둡게'는 그대로. 새 화면은 --v8-* 토큰을 쓸 것. import 한 줄을 빼면 v7 로 돌아감
   - 실행 내역 엑셀 읽기 (2026-11-17 대표 우선순위 3 '실제 프로젝트로 검증'): `lib/designCost.ts` parseCostSheet 가 회사 '실행집행 내역서' 양식(구분 · 견적 항목 · 실행 내역 · 단위 · 수량 · 실행 단가 · 실행 금액 · 발주처 · 근거·확인)도 읽음 — 품목 = 실행 내역, 구분 · 견적 항목은 아래 줄로 이어 씀(견적 항목은 비고 앞 [ ]), 단위 저장, 발주처 '미정 · 내부 · —'는 업체 없음. 예전엔 '실행 단가' 머리 줄을 못 알아봐 '실행 내역을 찾지 못했습니다'가 났음. 시험 tests/design-cost.test.ts. 11/17 로제코(AR2610-08) 설계 프로젝트에 실물 60줄 · 49,703,600원 넣어 확인(openpyxl 계산과 일치 · 견적 공급가 6,000만 대비 실행 82.8%). 조달청 물가 기준은 이 견적처럼 인건비(인) · 식 단위가 많으면 0/60 매칭 → 시중노임단가 기준이 다음 과제
   - 사진 카드 (2026-11-17 대표 우선순위 1 'Houzz Pro 식 화면 개편'): 프로젝트 카드(홈 · 프로젝트 '카드' 보기 · `components/ProjectCards.tsx`) 맨 위 16:10 대표 사진 + 사진 위 구분 알약 · 남은 기간, 사진 없으면 구분 색 바탕에 연번. 프로젝트 상세 머리 아래 표지 사진(`ProjectCoverBanner` · 사진 있을 때만). 홈 숫자 카드 4개 왼쪽 아이콘 타일. 사진은 서버 함수 `project-covers`(verify_jwt false · x-sync-key = GDRIVE_SYNC_KEY · 10분마다 cron project_covers → private.project_covers_tick)가 drive_index 사진 중 하나를 골라(`project-covers/cover.ts` pickCover: 준공 · 촬영 > 투시도 · 렌더 · 성과물 그래픽 > 현장 사진(상권조사 제외) > 컨셉 · 시안 > 기타 · 계약 · 견적 · 통장 · 명함 · 캡처 · 로고 · 슬랙 · 카톡 제외 · 60KB 이상) 드라이브 미리보기(긴 변 800px)만 비공개 보관함 project-covers 에 넣음 · 표 public.project_covers(활성 팀원 읽기 · 쓰기는 서버만 · source auto|manual · 자동은 3일마다 다시 고름) · api.projectCovers()(서명 주소 1시간 · signedUrlCache) · 체험 모드는 사진 없음. 20261117201000_project_covers. 시험 `npm run test:covers`

diff --git a/erp/docs/DESIGN_V9.md b/erp/docs/DESIGN_V9.md
@@ -57,3 +57,11 @@
 - 모서리: 카드 18 · 버튼 · 입력 12 · 태그 알약. 예전 '모든 모서리 0' 고정(styles.css)은 없앴다.
 - 빛(`--glow-1/2/3`)은 딱딱한 테 없이 넓게 번지게. 움직임은 0.2~0.3초로 천천히, 누를 수 있는 카드는 올리면 2px 떠오름, 창 뒤는 뿌옇게.
 - 차트 · 화이트보드 · 설계 화면 · 기념일 장식 · PC 오프라인 화면도 회색 + 네온 파랑. 실제 자재 색(3D · 마감재 라이브러리) · 거래처에 나가는 것(제안서 · 메일 · 카드뉴스 · 광고 이미지)은 그대로 둔다.
+
+## 선명하게 · 메뉴마다 다른 색 (2026-11-28 대표 지시 · 참고 'Product UI Styleguide')
+
+- 강조색은 하나가 아니라 **메뉴마다 하나**: `lib/menuColors.ts` MENU_COLORS(메뉴 키 → 색). Shell 이 지금 메뉴의 색을 `--v9-accent` 로 넣고, 빛(`--glow-*`) · 연한 바탕(`--v9-accent-tint`) · 주 버튼은 모두 `color-mix` 로 이 값에서 계산한다. 새 메뉴를 만들면 여기에 색 한 줄(빨강 계열은 지연 · 경고와 헷갈려 쓰지 않음).
+- CSS 에 파랑(#1f4dff · rgba(31,77,255,…))을 직접 쓰지 말고 `var(--v9-accent)` · `color-mix(in srgb, var(--v9-accent) N%, transparent)` 를 쓴다. 달력 '내 업무'(`--cal-mine`)만 늘 파랑.
+- 왼쪽 메뉴 아이콘은 그 메뉴 색의 작은 칸 안에(고른 줄은 색을 채운 칸 + 흰 아이콘).
+- 카드는 흰 바탕 + 또렷한 1px 선(`--v8-line` #dbdbd7) + 옅은 그림자, 바탕은 #eeeeeb — 카드끼리 경계가 분명해야 한다.
+- 구간 고르기(광고 조회 기간 등)는 둥근 홈 안의 알약: 고른 칸은 메뉴 색 + 흰 글자. 묶음 탭은 홈 안의 흰 카드.
